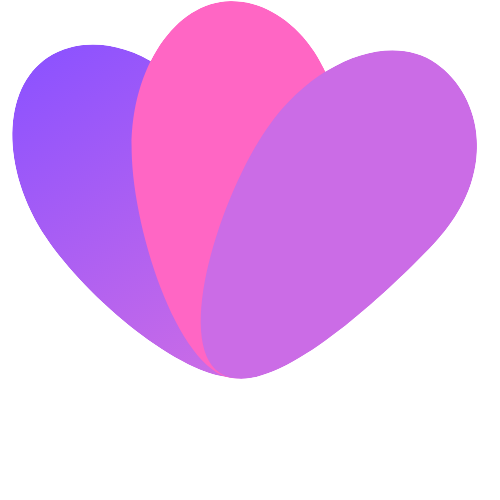
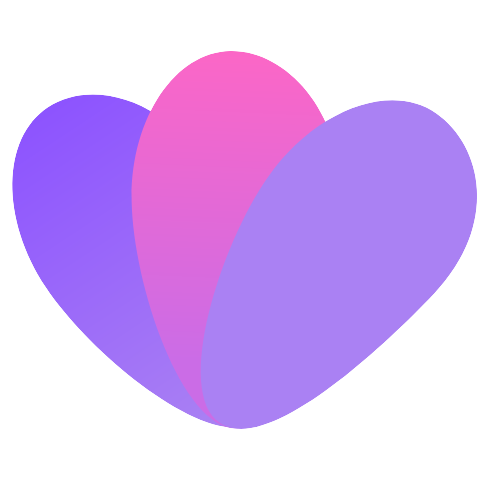
CSS home & navbar

diff --git a/style.css b/style.css
@@ -7,8 +7,9 @@
   --color-gray: #616161;
   --color-purple: #8559da;
   --color-dark-purple: #6734a2;
-  --color-light-purple: #b085f5;
+  --color-light-purple: #c09df7a5;
   --color-pinky-purple: #d05ce3;
+  --color-blue-purple: #461daf;
 
   /*Font size*/
   --font-large: 48px;
@@ -79,7 +80,7 @@ button {
 #navbar {
   display: flex;
   justify-content: space-between;
-  background-color: var(--color-dark-purple);
+  background-color: transparent;
   align-items: center;
   color: var(--color-white);
   padding: 0 16px;
@@ -88,12 +89,12 @@ button {
 .navbar__logo {
   font-size: var(--font-medium);
   font-weight: var(--weight-semi-bold);
-  transform: translateY(-20%);
+  transform: translateY(-15%);
 }
 .navbar__logo_jorengcon {
   height: 40px;
   width: 40px;
-  transform: translateY(40%);
+  transform: translateY(20%);
   margin: 0 10px;
 }
 .navbar__menu {
@@ -114,11 +115,14 @@ button {
 }
 /*Home*/
 #home {
-  background: url('images/배너.png') center/cover no-repeat;
-  padding: 40px;
+  background: url('images/배너3.jpg') center/cover no-repeat;
+  padding: 0 0 40px;
   text-align: center;
+  top: 0;
+  left: 0;
 }
 .home__avatar {
+  margin-top: 80px;
   width: 250px;
   height: 250px;
   border-radius: 50%;

diff --git a/index.html b/index.html
@@ -17,7 +17,10 @@
   </head>
   <body>
 
-    <!-- Navbar -->
+
+    <!-- Home -->
+    <section id="home">
+          <!-- Navbar -->
     <nav id="navbar">
       <div class="navbar__logo">
         <a href="#"><img class = "navbar__logo_jorengcon" src="images/jorengcon.png" alt="joreng"></a>
@@ -34,8 +37,6 @@
         </ul>
       </div>
     </nav>
-    <!-- Home -->
-    <section id="home">
       <img src="images/profile.jpg" alt="Joreng's profile photo" class="home__avatar">
       <h1 class="home__title">Hello,<br>I'm Jaerang Lim</h1>
       <h2 class="home__description">A Student majoring in Software and Physics in Ewha.w.univ</h2>
